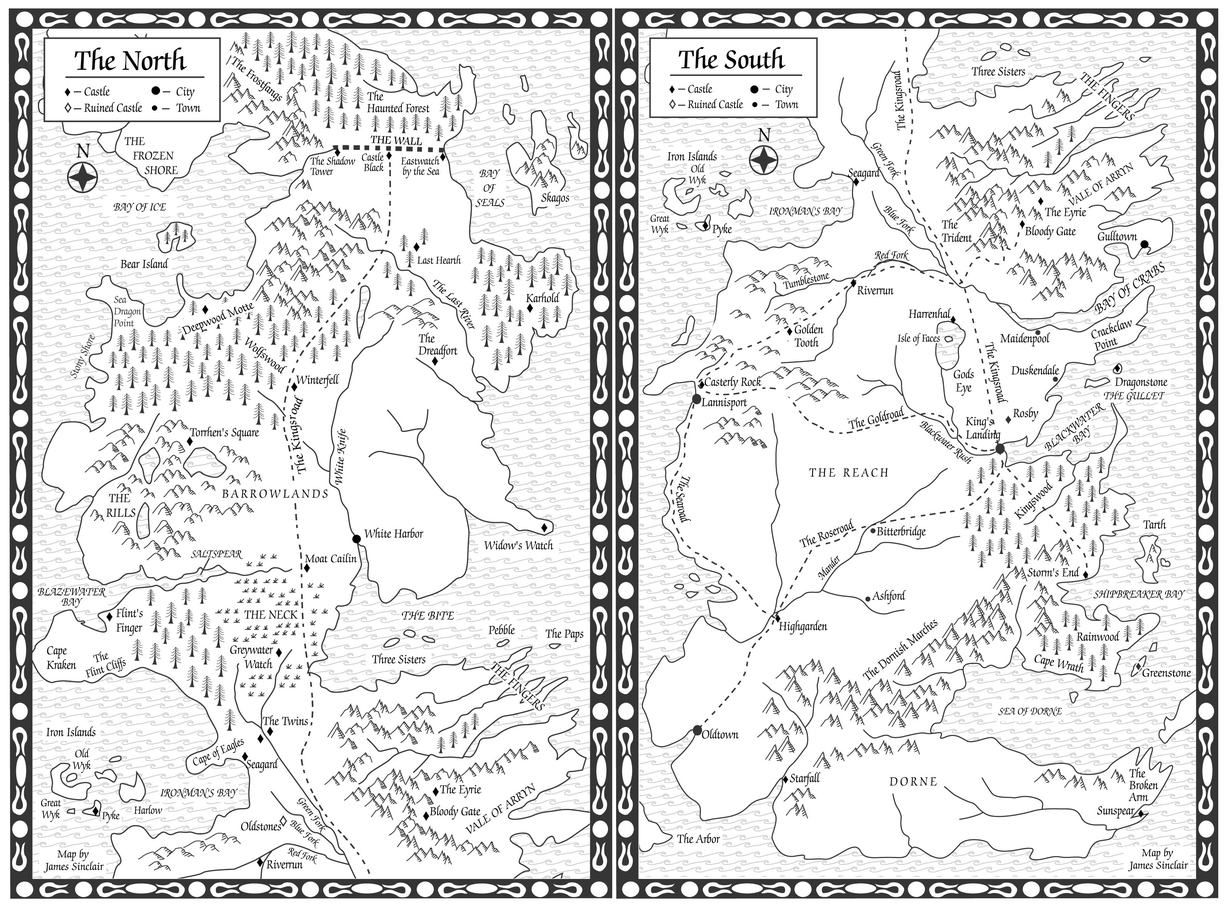
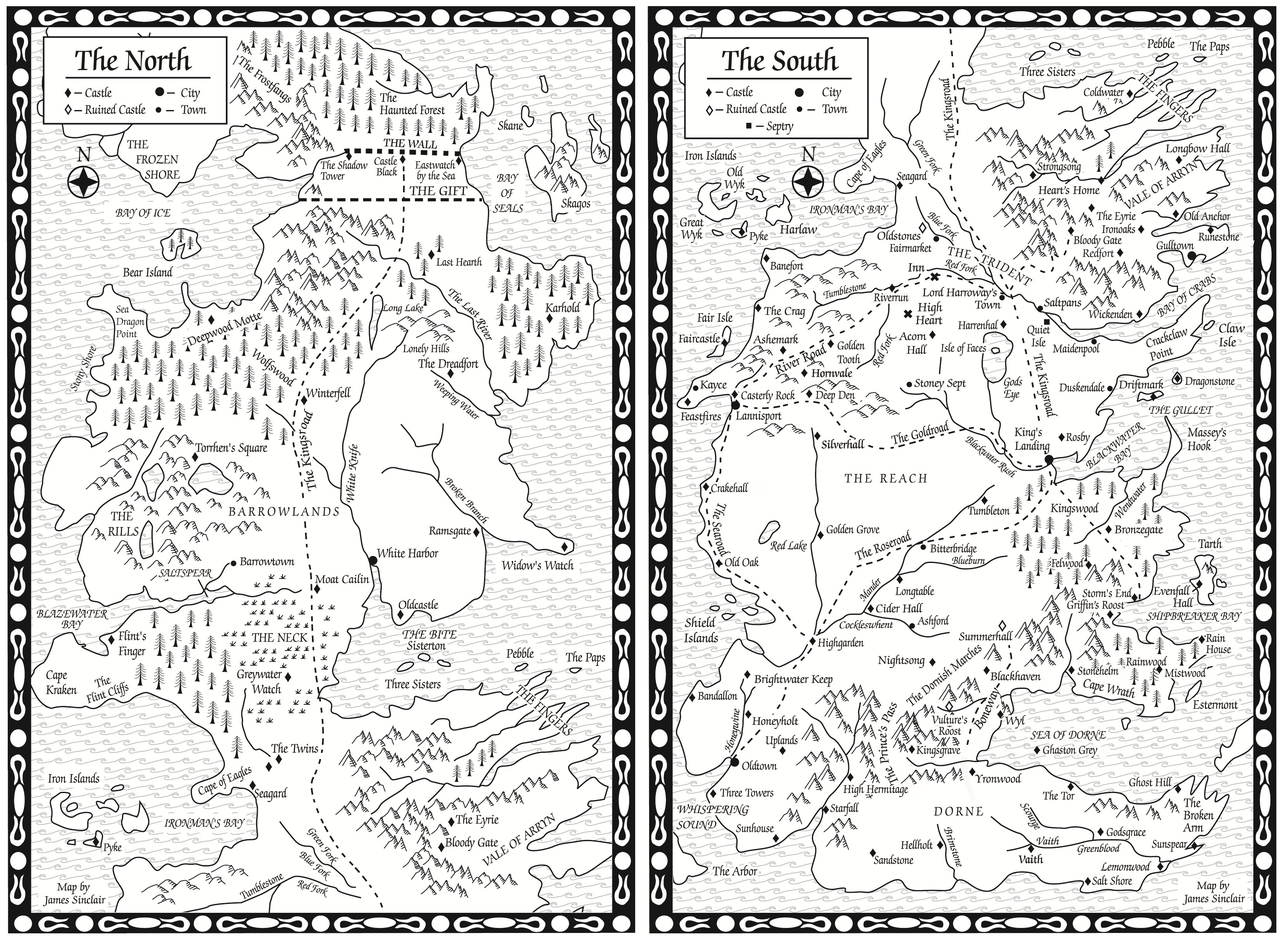
new map - updated old coordinates

diff --git a/script.js b/script.js
@@ -157,7 +157,7 @@ function placeHighlightMarker(y, x, type) {
     if (type == "castle") {
         highlightMarkers.push(createDiamondMarker(y, x, 36).addTo(map));
     } else if (type == "city") {
-        highlightMarkers.push(createCircleMarker(y, x, 32).addTo(map));
+        highlightMarkers.push(createCircleMarker(y, x, 30).addTo(map));
     } else if (type == "town") {
         highlightMarkers.push(createCircleMarker(y, x, 16).addTo(map));
     }
